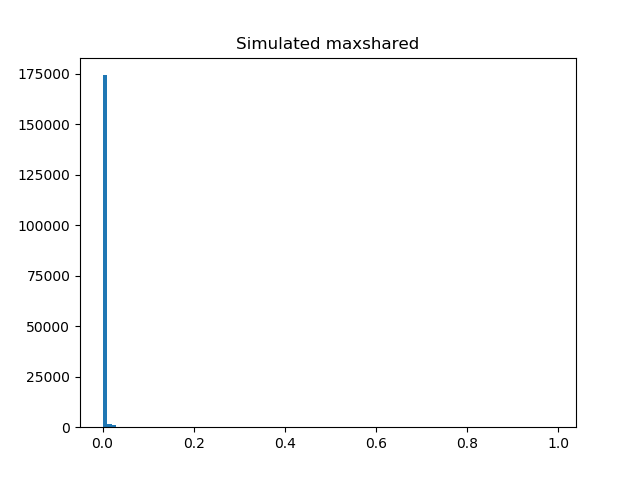
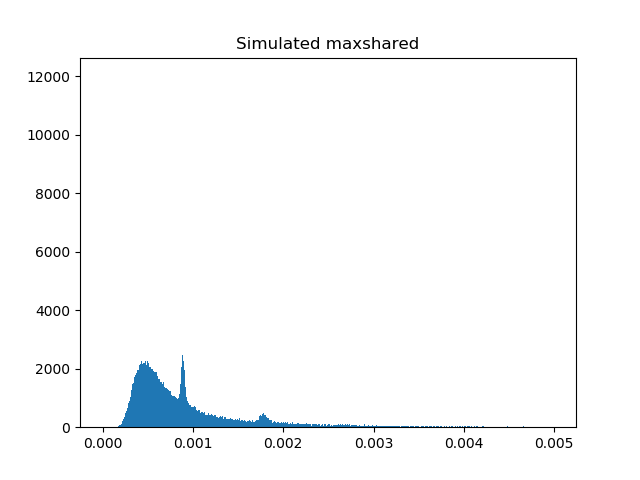
Updated figures

diff --git a/PlotSimReads.py b/PlotSimReads.py
@@ -9,7 +9,7 @@ from matplotlib import colors as mcolors
 
 fn = sys.argv[1]
 
-uncOnly = True
+uncOnly = False
 
 cts = []
 lens = []
@@ -57,7 +57,7 @@ plt.close()
 plt.cla()
 plt.clf()
 
-plt.hist(cts, bins = [0.01*i for i in range(0, 100)])
+plt.hist(cts, bins = [0.00001*i for i in range(0, 500)])
 plt.title('Simulated maxshared')
 curfn = 'simshared.png'
 if uncOnly:
